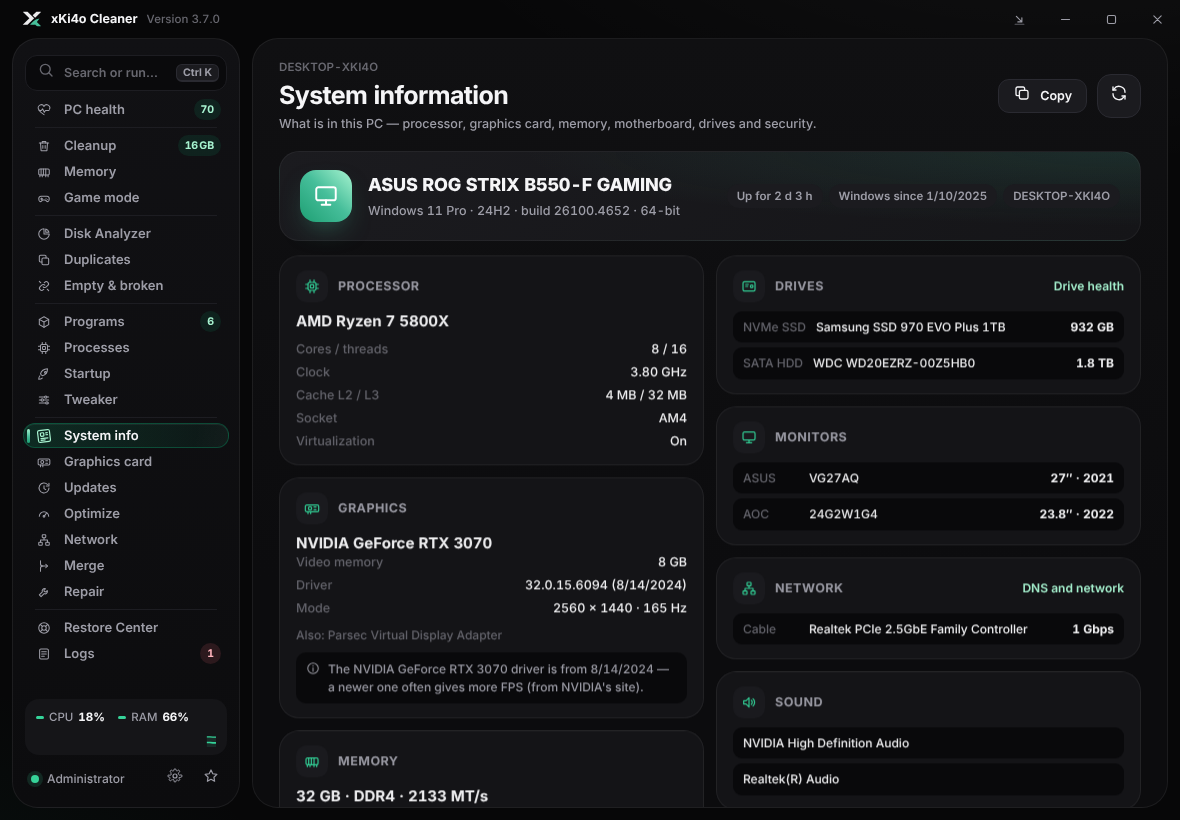
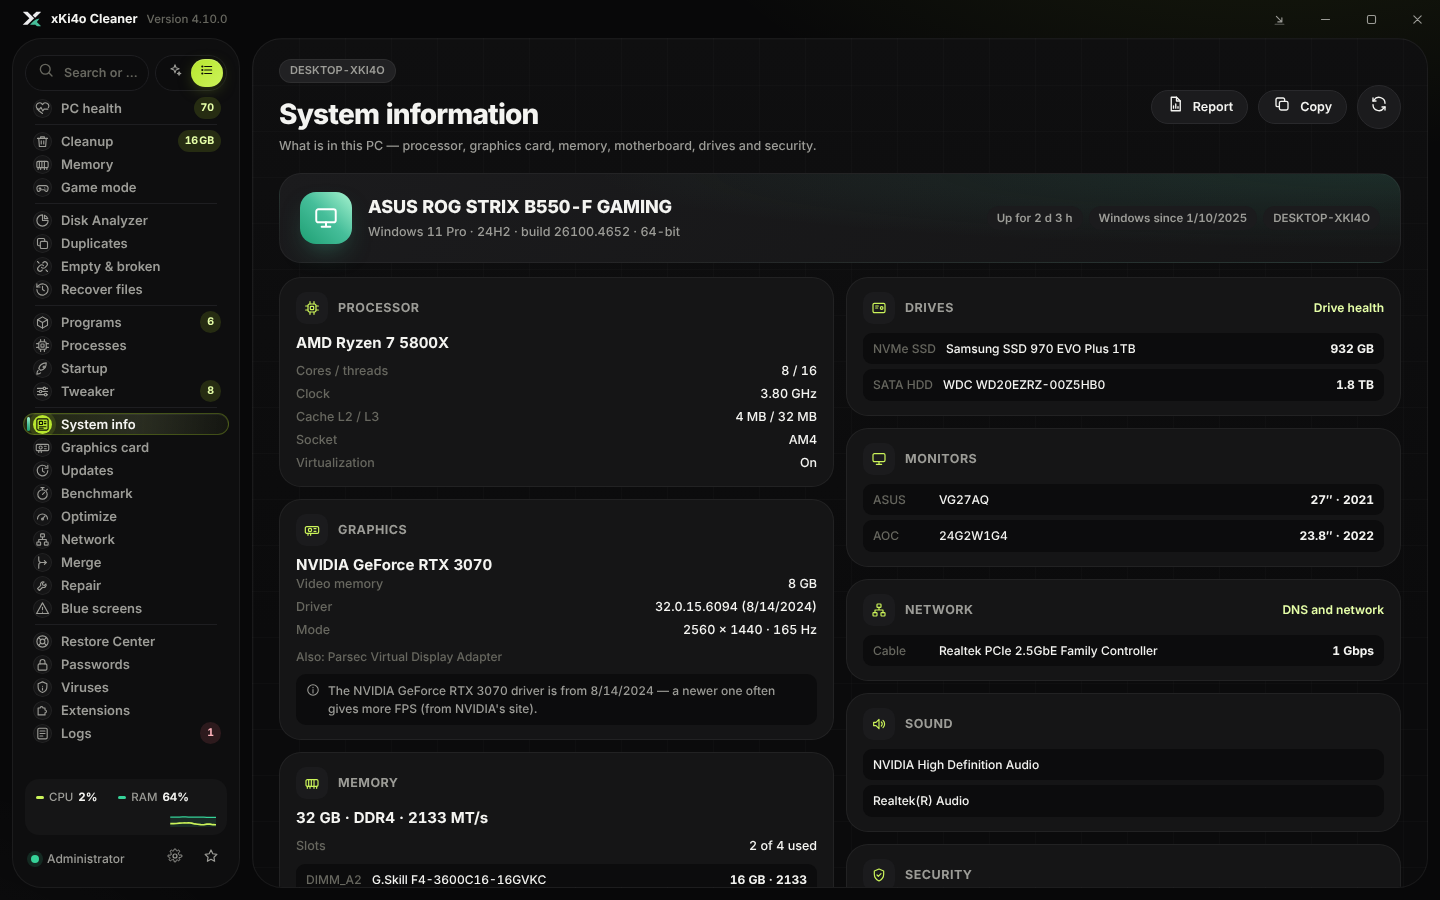
README: new screenshots of the Carbon look, plus game mode, viruses and passwords
Claude-Session: https://claude.ai/code/session_01KRJjKZZz8VxBCLNMfzXSPE

diff --git a/README.md b/README.md
@@ -66,6 +66,9 @@ Needs Windows 10 or 11 (64-bit) and the WebView2 Runtime, which Windows 11 alrea
 <img src="docs/screenshots/updates.png" width="430" alt="Updates">
 <img src="docs/screenshots/network.png" width="430" alt="Network and DNS">
 <img src="docs/screenshots/merge.png" width="430" alt="Merge connections">
+<img src="docs/screenshots/game.png" width="430" alt="Game mode">
+<img src="docs/screenshots/viruses.png" width="430" alt="Virus scanner">
+<img src="docs/screenshots/passwords.png" width="430" alt="Passwords">
 </p>
 
 ## Is it safe?
